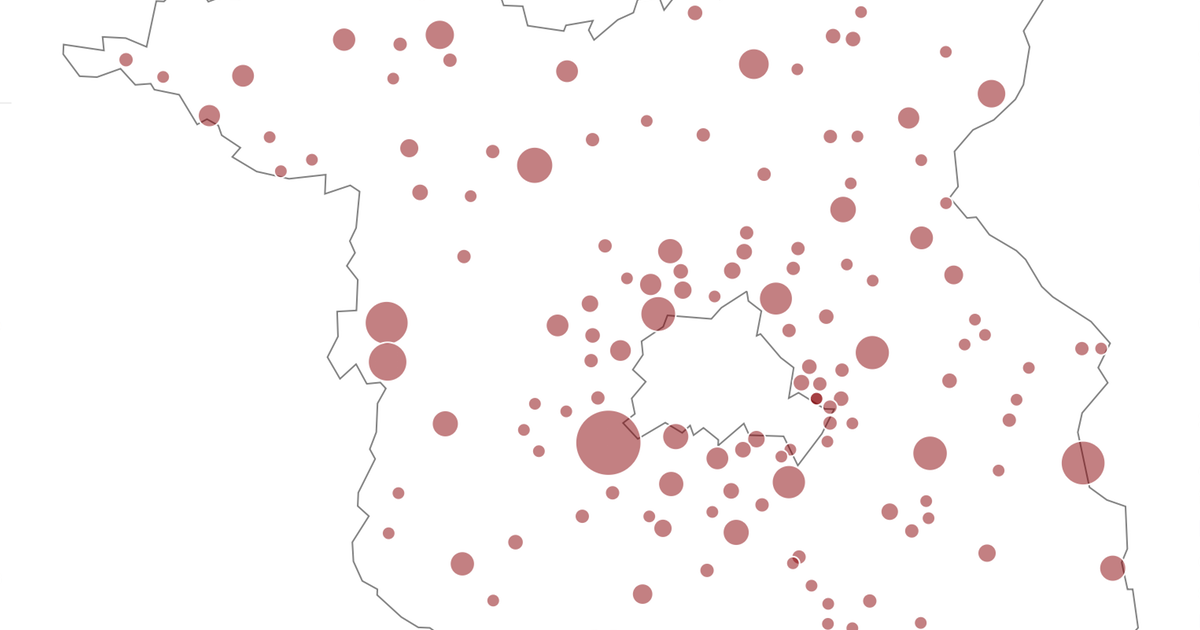
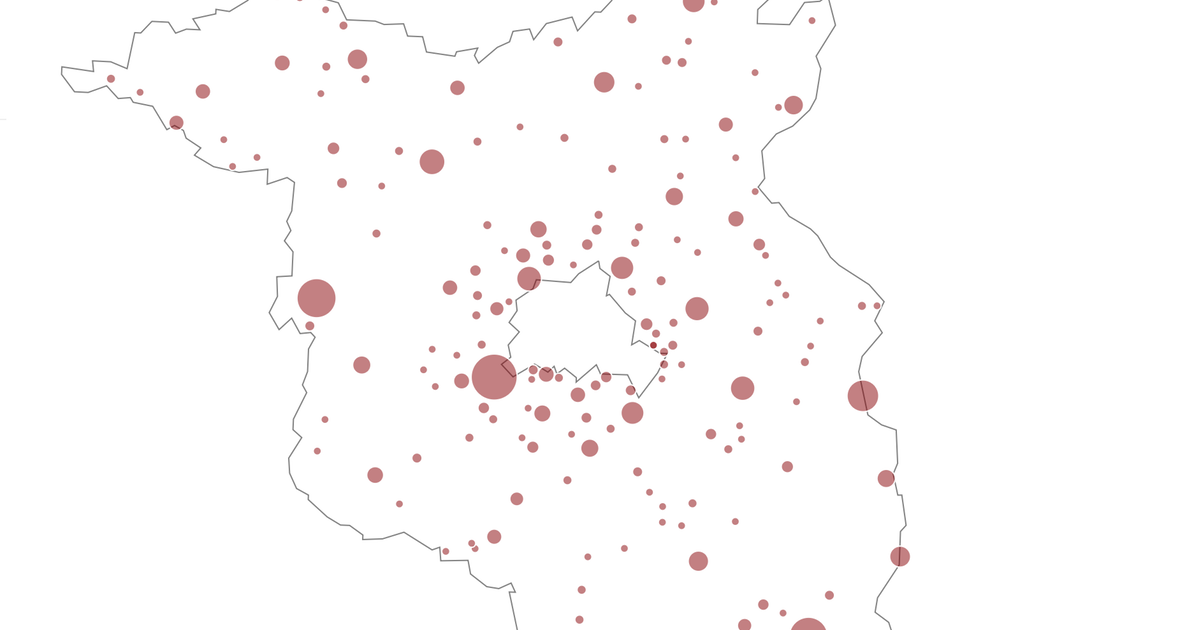
fixes

diff --git a/html/index.html b/html/index.html
@@ -26,7 +26,9 @@
         <meta property="og:description" content="Seit 2000 wurden in Brandenburg knapp 1700 Straftaten mit rechtem Hintergrund dokumentiert. Diese Karte gibt einen Überblick." />
 
         <style type="text/css">
-
+            a, a:hover, .btn-link, .btn-link:hover {
+                color: #333333;
+            }
         </style>
 
         <script src="http://code.jquery.com/jquery-2.1.3.min.js"></script>
@@ -39,39 +41,32 @@
         <script type="text/javascript">
         </script>
         
-        <div class="container-fluid">
+        <div class="container text-center">
+            <div class="jumbotron ">
+                      <h1>Rechte Gewalt<br><small>in Deutschland</small></h1>
+            </div>
+
             <div class="row">
-                <div class="col-xs-18 col-md-2">
-                    <div class="page-header">
-                      <h1>Rechte Gewalt<br><small>in Brandenburg</small></h1>
-                    </div>
-
-                    <br>
-
-                    <p>Seit 2000 wurden in Brandenburg knapp 1700 Straftaten mit rechtem Hintergrund dokumentiert.</p>
-
-                    <p>Klick auf die Kreise, um die Bericht der Vorfälle zu lesen.</p>
-
-                    <br><br><br>
-
-                    <p><small>Daten: <a href="http://www.opferperspektive.de/category/rechte-angriffe/chronologie-rechter-angriffe">Opferperspektive</a></small></p>
-
-                    <p><small>Idee und Umsetzung: <a href="http://johannesfilter.com">Johannes Filter</a></small></p>
-
-                    <p><small>Framework: <a href="http://kartograph.org">Kartograph.js</a></small></p>
-
-                    <p><small>This work is licensed under a <a rel="license" href="http://creativecommons.org/licenses/by/4.0/">Creative Commons Attribution 4.0 International License</a>.</small></p>
-                    <p><small><a href="http://magdego.de/impressum">Impressum</a></small></p>
-                    
+                <div class="col-xs-18 col-md-4">
+                    <a href="http://sachsenanhalt.rechtegewalt.com">
+                        <h2>Sachsen-Anhalt</h2>
+                        <img src="http://sachsenanhalt.rechtegewalt.com/preview.png" alt="..." class="img-thumbnail">
+                    </a>
                 </div>
-                <div class="col-xs-18 col-md-7">
-                    <div class="fullHeight" id="map">
-                    </div>
+                <div class="col-xs-18 col-md-4">
+                    <a href="http://sachsen.rechtegewalt.com">
+                        <h2>Sachsen</h2>
+                        <img src="http://sachsen.rechtegewalt.com/preview.png" alt="..." class="img-thumbnail">
+                     </a>
                 </div>
-                <div class="col-xs-18 col-md-3">
-                    <div class="fullHeight" id="text"></div>
+                <div class="col-xs-18 col-md-4">
+                    <a href="http://brandenburg.rechtegewalt.com">
+                        <h2>Brandenburg</h2>
+                        <img src="http://brandenburg.rechtegewalt.com/preview.png" alt="..." class="img-thumbnail">
+                    </a>
                 </div>
             </div>
+            <div class="row"><br><a href="http://johannesfilter.com#impressum">Impressum</a></div>
         </div>
     </body>
 </html>

diff --git a/sachsenanhalt.rechtegewalt.com/index.html b/sachsenanhalt.rechtegewalt.com/index.html
@@ -142,6 +142,8 @@
                         <p><small>Framework: <a href="http://kartograph.org">Kartograph.js</a></small></p>
 
                         <p><small>This work is licensed under a <a rel="license" href="http://creativecommons.org/licenses/by/4.0/">Creative Commons Attribution 4.0 International License</a>.</small></p>
+                        <p><small><a href="http://johannesfilter.com#impressum">Impressum</a></small></p>
+
                     
                 </div>
                 <div class="col-xs-18 col-md-6">

diff --git a/brandenburg.rechtegewalt.com/index.html b/brandenburg.rechtegewalt.com/index.html
@@ -154,7 +154,7 @@
                         dataType: 'json',
                         success: function(cities) {
 
-                            var scale = kartograph.scale.sqrt(cities.concat([{ n: 0 }]), 'n').range([3, 20]);
+                            var scale = kartograph.scale.sqrt(cities.concat([{ n: 0 }]), 'n').range([2, 18]);
 
                             if( mobile ){
                                 cities = cities.filter(function (x) {return x.n > 11})
